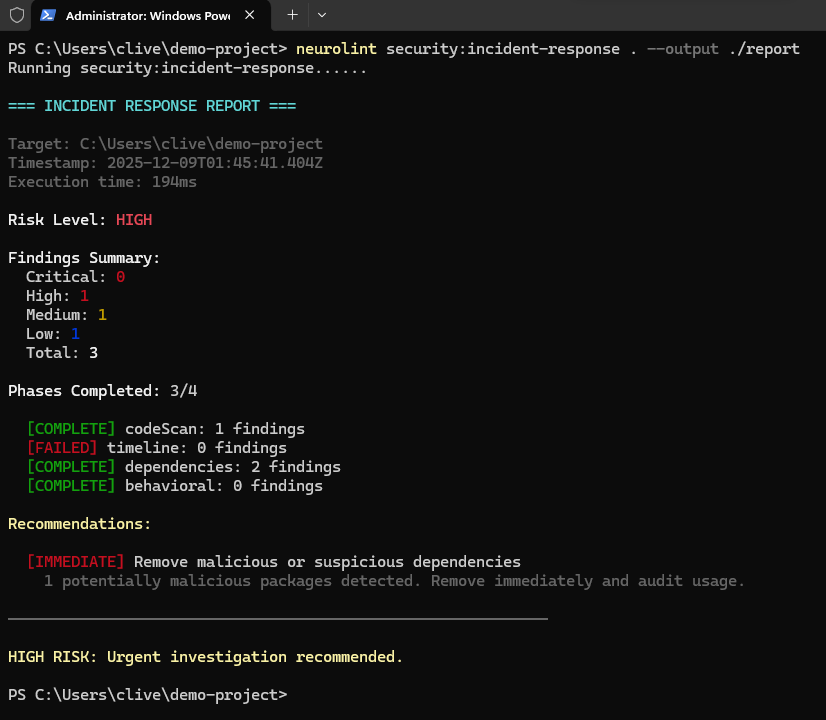
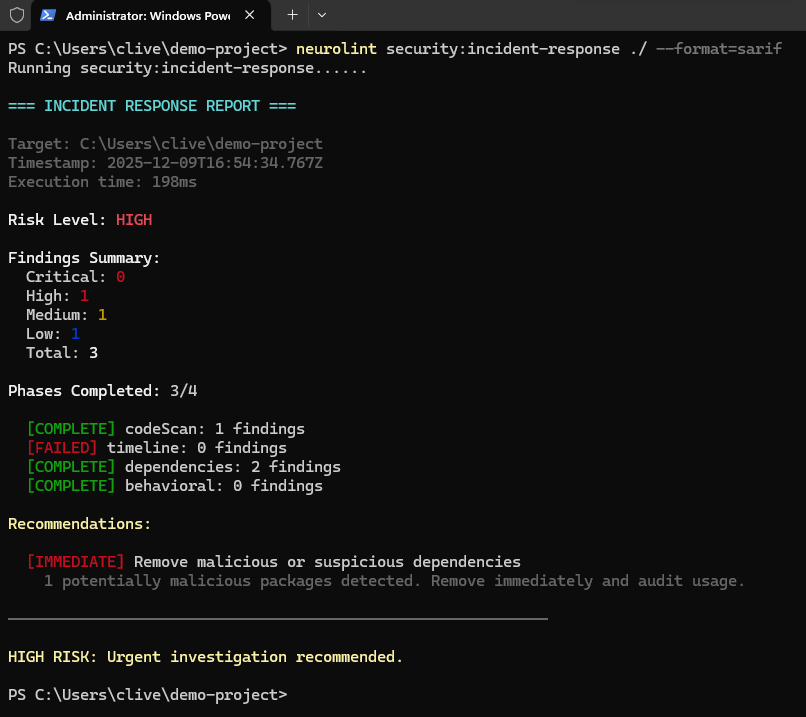
Update security incident response workflow screenshots and commands
Update screenshots and commands for the "Scan for Compromise", "Generate Incident Report", and "Verify Clean State" steps within the security incident response workflow in `SecurityPage.tsx`. The new screenshots `security-scan-compromise.png`, `security-incident-report.png`, and `security-compare-baseline.png` have been added to the public folder.

Replit-Commit-Author: Agent
Replit-Commit-Session-Id: f26f1305-3573-4d2d-b31b-d0e42124a186
Replit-Commit-Checkpoint-Type: full_checkpoint
Replit-Commit-Event-Id: 5a60c1d8-8da6-4bb2-9ec3-9a17f8aafad3
Replit-Commit-Screenshot-Url: https://storage.googleapis.com/screenshot-production-us-central1/ea5d11ff-5eeb-4f78-b7ea-7437a6dc5cf3/f26f1305-3573-4d2d-b31b-d0e42124a186/ORPIawc
Replit-Helium-Checkpoint-Created: true

diff --git a/landing/src/SecurityPage.tsx b/landing/src/SecurityPage.tsx
@@ -48,15 +48,15 @@ const SecurityPage = () => {
     { 
       step: 2, 
       title: 'Scan for Compromise', 
-      cmd: 'neurolint security:scan-compromise ./src --mode=deep', 
+      cmd: 'neurolint security:scan-compromise ./ --mode=deep', 
       desc: 'Detect if exploitation occurred before you patched',
-      screenshot: '/security-dry-run.png',
+      screenshot: '/security-scan-compromise.png',
       screenshotAlt: 'Deep scan showing vulnerability detection'
     },
     { 
       step: 3, 
       title: 'Generate Incident Report', 
-      cmd: 'neurolint security:incident-response ./src --format=sarif', 
+      cmd: 'neurolint security:incident-response ./ --format=sarif', 
       desc: 'Create exportable report for your security team',
       screenshot: '/security-incident-report.png',
       screenshotAlt: 'Incident response report output'
@@ -64,9 +64,9 @@ const SecurityPage = () => {
     { 
       step: 4, 
       title: 'Verify Clean State', 
-      cmd: 'neurolint security:compare-baseline ./src', 
+      cmd: 'neurolint security:compare-baseline ./', 
       desc: 'Confirm no unauthorized changes remain',
-      screenshot: '/security-safe.png',
+      screenshot: '/security-compare-baseline.png',
       screenshotAlt: 'Verification scan showing no vulnerabilities'
     },
   ];
